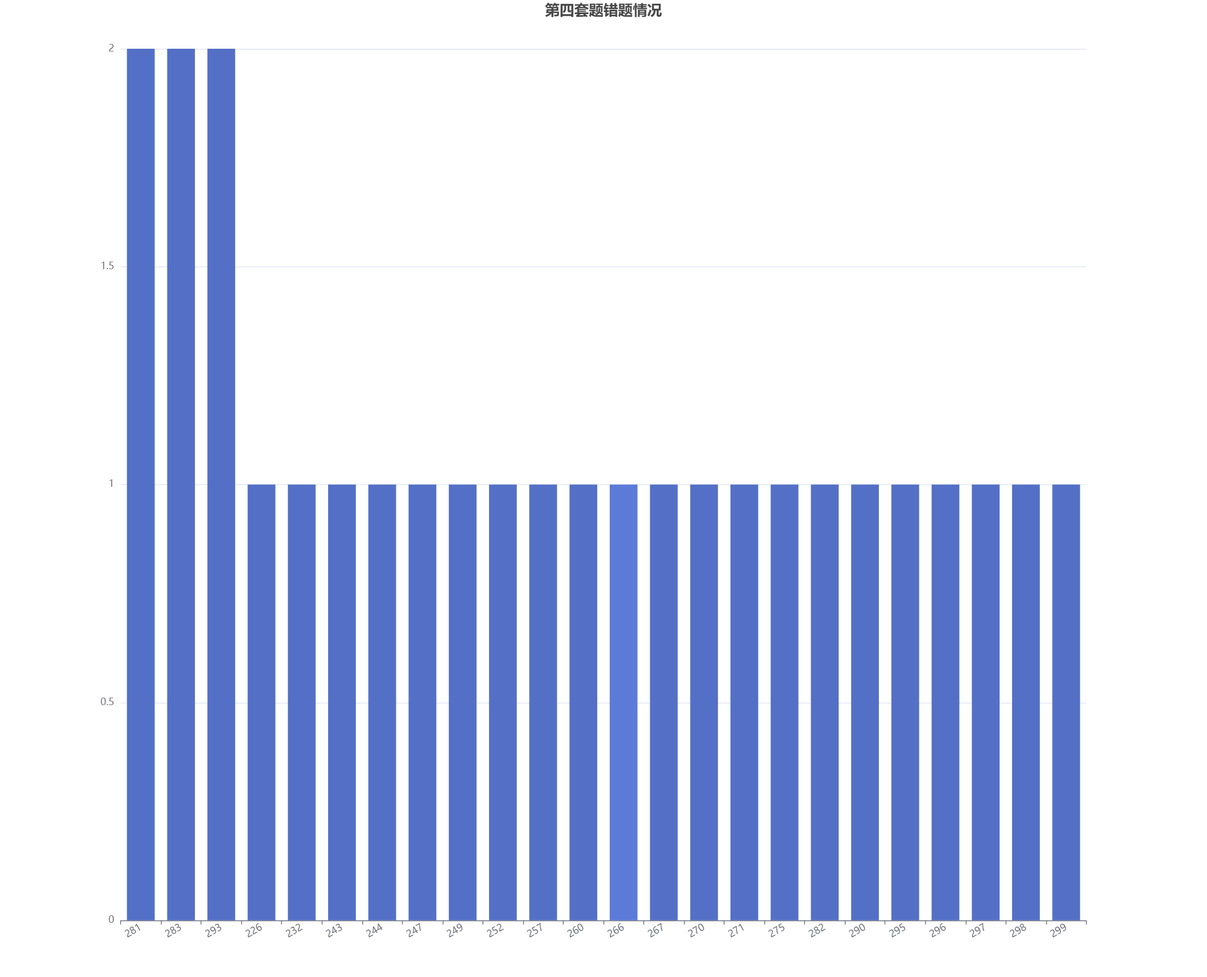
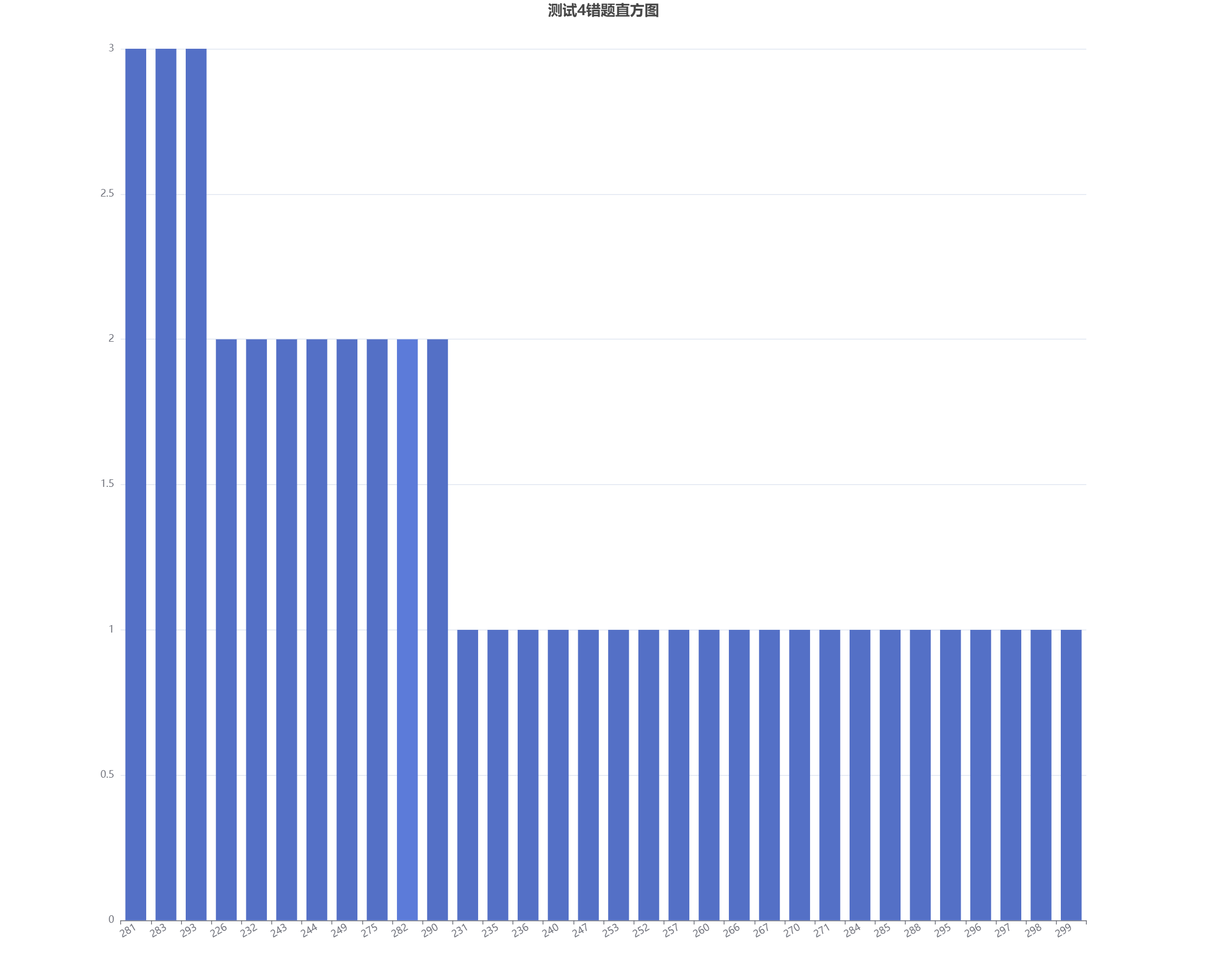
[update] up test 4 result

Changed region(s): [[0.0929, 0.031, 0.8977, 0.9623], [0.4334, 0.0, 0.5572, 0.031]]

diff --git a/src/testReview.js b/src/testReview.js
@@ -199,18 +199,23 @@ option = {
 option = {
   title: {
     left: "center",
-    text: "第四套题错题情况",
+    text: "测试4错题直方图",
   },
   dataset: [
     {
       dimensions: ["number", "frequent"],
       source: [
-        ["226", 1],
-        ["232", 1],
-        ["243", 1],
-        ["244", 1],
+        ["226", 2],
+        ["231", 1],
+        ["232", 2],
+        ["235", 1],
+        ["236", 1],
+        ["240", 1],
+        ["243", 2],
+        ["244", 2],
         ["247", 1],
-        ["249", 1],
+        ["249", 2],
+        ["253", 1],
         ["252", 1],
         ["257", 1],
         ["260", 1],
@@ -218,12 +223,15 @@ option = {
         ["267", 1],
         ["270", 1],
         ["271", 1],
-        ["275", 1],
-        ["281", 2],
-        ["282", 1],
-        ["283", 2],
-        ["290", 1],
-        ["293", 2],
+        ["275", 2],
+        ["281", 3],
+        ["282", 2],
+        ["283", 3],
+        ["284", 1],
+        ["285", 1],
+        ["288", 1],
+        ["290", 2],
+        ["293", 3],
         ["295", 1],
         ["296", 1],
         ["297", 1],

diff --git a/src/correctRate.js b/src/correctRate.js
@@ -96,3 +96,36 @@ option = {
     },
   ],
 };
+
+///////////////////////
+
+option = {
+  title: {
+    left: "center",
+    text: "测试4正确率推移",
+  },
+  tooltip: {
+    trigger: "axis",
+  },
+  xAxis: {
+    type: "category",
+    data: ["第一回", "第二回", "第三回"],
+  },
+  yAxis: {
+    type: "value",
+    axisLabel: {
+      formatter: "{value}%",
+    },
+  },
+  series: [
+    {
+      data: [70.7, 93.3, 74.7],
+      type: "line",
+      markLine: {
+        symbol: ["none", "none"],
+        label: { show: true },
+        data: [{ yAxis: 75 }],
+      },
+    },
+  ],
+};

diff --git a/第3套/README.md b/第3套/README.md
@@ -468,11 +468,11 @@
   
     </details>
 
-31. You have a periodic image analysis application that gets some files in input, analyzes them and tor each file writes some data in output to a ten file the number of files in input per day is high and concentrated in a few hours of the day. Currently you have a server on EC2 with a large EBS volume that hosts the input data and the results. It takes almost 20 hours per day to complete the process. What services could be used to reduce the elaboration time and improve the availability of the solution?
-    - [ ] A. S3 to store I/O files. SQS to distribute elaboration commands to a group of hosts working in parallel. Auto scaling to dynamically size the group of hosts depending on the length of the SQS queue
-    - [ ] B. EBS with Provisioned IOPS (PIOPS) to store I/O files. SNS to distribute elaboration commands to a group of hosts working in parallel Auto Scaling to dynamically size the group of hosts depending on the number of SNS notifications
-    - [ ] C. S3 to store I/O files, SNS to distribute evaporation commands to a group of hosts working in parallel. Auto scaling to dynamically size the group of hosts depending on the number of SNS notifications
-    - [ ] D. EBS with Provisioned IOPS (PIOPS) to store I/O files SQS to distribute elaboration commands to a group of hosts working in parallel Auto Scaling to dynamically size the group ot hosts depending on the length of the SQS queue.
+31. You have a periodic image analysis application that gets some files in input, analyzes them and for each file writes some data in output to a I/O file. The number of files in input per day is high and concentrated in a few hours of the day. Currently you have a server on EC2 with a large EBS volume that hosts the input data and the results. It takes almost 20 hours per day to complete the process. What services could be used to reduce the elaboration time and improve the availability of the solution?
+    - [ ] A. S3 to store I/O files. SQS to distribute elaboration commands to a group of hosts working in parallel. Auto scaling to dynamically size the group of hosts depending on the length of the SQS queue.
+    - [ ] B. EBS with Provisioned IOPS (PIOPS) to store I/O files. SNS to distribute elaboration commands to a group of hosts working in parallel. Auto Scaling to dynamically size the group of hosts depending on the number of SNS notifications
+    - [ ] C. S3 to store I/O files, SNS to distribute evaporation commands to a group of hosts working in parallel. Auto scaling to dynamically size the group of hosts depending on the number of SNS notifications.
+    - [ ] D. EBS with Provisioned IOPS (PIOPS) to store I/O files. SQS to distribute elaboration commands to a group of hosts working in parallel. Auto Scaling to dynamically size the group of hosts depending on the length of the SQS queue.
 
     <details>
        <summary>Answer</summary>
@@ -497,10 +497,11 @@
 
     </details>
 
-33. An organization is planning to host a Wordpress blog as well as joomla CMS on a single instance launched with VPC. The organization wants to create separate domains for each application using Route 53. The organization may have about ten instances each with these two applications. While launching each instance, the organization configured two separate network interfaces (primary + secondary ENI) with their own Elastic IPs to the instance. The suggestion was to use a public IP from AWS instead of an Elastic IP as the number of elastic IPs allocation per region is restricted in the account. What action will you recommend to the organization?
+33. An organization is planning to host a Wordpress blog as well as Joomla CMS on a single instance launched with VPC. The organization wants to create separate domains for each application using Route 53. The organization may have about ten instances each with these two applications. While launching each instance, the organization configured two separate network interfaces (primary + secondary ENI) with their own Elastic IPs to the instance. The suggestion was to use a public IP from AWS instead of an Elastic IP as the number of elastic IPs allocation per region is restricted in the account. What action will you recommend to the organization?
+
     - [ ] A. I agree with the suggestion but will prefer that the organization should use separate subnets with each ENI for different public IPs.
     - [ ] B. I do not agree as it is required to have only an elastic IP since an instance has more than one ENI and AWS does not assign a public IP to an instance with multiple ENIs.
-    - [ ] C. I do not agree as AWS VPC does not attach a public IP to an ENI; so the user has to use only an elastic IP only.
+    - [ ] C. I do not agree as AWS VPC does not attach a public IP to an ENI; so, the user must use only an elastic IP only.
     - [ ] D. I agree with the suggestion, and it is recommended to use a public IP from AWS since the organization is going to use DNS with Route 53.
 
     <details>
@@ -526,10 +527,10 @@
 
     </details>
 
-35. A company is running a batch analysis every hour on their main transactional DB, running on an RDS MySQL instance, to populate their central Data Warehouse running on Redshift. During the execution of the batch, their transactional applications are very slow. When the batch completes they need to update the top management dashboard with the new data. The dashboard is produced by another system running on-premises that is currently started when a manually-sent email notifies that an update is required. The on-premises system cannot be modified because is managed by another team. How would you optimize this scenario to solve performance issues and automate the process as much as possible?
+35. A company is running a batch analysis every hour on their main transactional DB, running on an RDS MySQL instance, to populate their central Data Warehouse running on Redshift. During the execution of the batch, their transactional applications are very slow. When the batch completes, they need to update the top management dashboard with the new data. The dashboard is produced by another system running on-premises that is currently started when a manually sent email notifies that an update is required. The on-premises system cannot be modified because is managed by another team. How would you optimize this scenario to solve performance issues and automate the process as much as possible?
     - [ ] A. Replace RDS with Redshift for the batch analysis and SNS to notify the on-premises system to update the dashboard.
     - [ ] B. Replace RDS with Redshift for the oaten analysis and SQS to send a message to the on-premises system to update the dashboard.
-    - [ ] C. Create an RDS Read Replica for the batch analysis and SNS to notify me on-premises system to update the dashboard.
+    - [ ] C. Create an RDS Read Replica for the batch analysis and SNS to notify the on-premises system to update the dashboard.
     - [ ] D. Create an RDS Read Replica for the batch analysis and SQS to send a message to the on-premises system to update the dashboard.
 
     <details>
@@ -539,10 +540,10 @@
   
     </details>
 
-36. A company is building a voting system for a popular TV show, viewers will watch the performances then visit the show website to vote for their favorite performer. It is expected that in a short period of time after the show has finished the site will receive millions of visitors, the visitors will first login to the site using their "Amazon.com" credentials and then submit their vote. After the voting is completed, the page will display the vote totals. The company needs to build the site such that it can handle the rapid influx of traffic while maintaining good performance but also wants to keep costs to a minimum. Which of the design patters below should they use?
-    - [ ] A. Use CloudFront and an Elastic Load Balancer in front of an auto-scaled set of web servers, the web servers will first call the Login With Amazon service to authenticate the user, the web servers will process the users vote and store the result into a DynamoDB table using IAM Roles for EC2 Instances to gain permissions to the DynamoDB table.
-    - [ ] B. Use CloudFront and an Elastic Load Balancer in front of an auto-scaled set of web servers, the web servers will first call the Login With Amazon service to authenticate the user, the web servers will process the users vote and store the result into an SQS queue using IAM Roles for EC2 Instances to gain permissions to the SQS queue. A set of application servers will then retrieve the items from the queue and store the result into a DynamoDB table.
-    - [ ] C. Use CloudFront and an Elastic Load Balancer in front of an auto-scaled set of web servers, the web servers will first call the Login With Amazon service to authenticate the user then process the users vote and store the result into a multi-AZ Relational Database Service instance.
+36. A company is building a voting system for a popular TV show, viewers will watch the performances then visit the show website to vote for their favorite performer. It is expected that in a short period of time after the show has finished the site will receive millions of visitors, the visitors will first login to the site using their `Amazon.com` credentials and then submit their vote. After the voting is completed, the page will display the vote totals. The company needs to build the site such that it can handle the rapid influx of traffic while maintaining good performance but also wants to keep costs to a minimum. Which of the design patters below should they use?
+    - [ ] A. Use CloudFront and an Elastic Load Balancer in front of an auto-scaled set of web servers, the web servers will first call the Login with Amazon service to authenticate the user, the web servers will process the users vote and store the result into a DynamoDB table using IAM Roles for EC2 Instances to gain permissions to the DynamoDB table.
+    - [ ] B. Use CloudFront and an Elastic Load Balancer in front of an auto-scaled set of web servers, the web servers will first call the Login with Amazon service to authenticate the user, the web servers will process the users vote and store the result into an SQS queue using IAM Roles for EC2 Instances to gain permissions to the SQS queue. A set of application servers will then retrieve the items from the queue and store the result into a DynamoDB table.
+    - [ ] C. Use CloudFront and an Elastic Load Balancer in front of an auto-scaled set of web servers, the web servers will first call the Login with Amazon service to authenticate the user then process the users vote and store the result into a multi-AZ Relational Database Service instance.
     - [ ] D. Use CloudFront and the static website hosting feature of S3 with the JavaScript SDK to call the Login with Amazon service to authenticate the user, use IAM Roles to gain permissions to a DynamoDB table to store the users vote.
 
     <details>
@@ -635,7 +636,7 @@
     - [ ] B. Review the Access Advisor in AWS IAM to determine
     - [ ] C. Review the AWS Trusted Advisor report to determine services recently used
     - [ ] D. Remove the default FullAWSAccess SCP
-    - [ ] E. Define organizational units(OUS)and place the member accounts in the OUs
+    - [ ] E. Define organizational units (OUS)and place the member accounts in the OUs
     - [ ] F. Remove the default DenyAWSaccess SCP
 
     <details>
@@ -652,7 +653,7 @@
 
 44. A company hosts a community forum site using an Application Load Balancer (ALB) and a Docker application hosted in an Amazon ECS cluster. The site data is stored in Amazon RDS for MYSQL, and the container image is stored in ECR. The company needs to provide their customers with a disaster recovery SLA with an RTO of no more than 24 hours and RPO of no more than 8 hours. Which of the following solutions is the MOST cost-effective way to meet the requirements?
     - [ ] A. Use AWS CloudFormation to deploy identical ALB, EC2, ECS and RDS resources in two regions. Schedule RDS snapshots every 8 hours. Use RDS multi-region replication to update the secondary regions copy of the database. In the event of a failure, restore from the latest snapshot, and use an Amazon Route 53 DNS failover policy to automatically redirect customers to the ALB in the secondary region.
-    - [ ] B. Store the Docker image in ECR in two regions. Schedule RDS snapshots every 8 hours with snapshots copied to the secondary region. In the event of a failure, use AWS CloudFormation to deploy the AL B, EC2, ECS and RDS resources in the secondary region, restore from the latest snapshot, and update the DNS record to point to the ALB in the secondary region.
+    - [ ] B. Store the Docker image in ECR in two regions. Schedule RDS snapshots every 8 hours with snapshots copied to the secondary region. In the event of a failure, use AWS CloudFormation to deploy the ALB, EC2, ECS and RDS resources in the secondary region, restore from the latest snapshot, and update the DNS record to point to the ALB in the secondary region.
     - [ ] C. Use AWS CloudFormation to deploy identical ALB, EC2 ECS, and RDS resources in a secondary region. Schedule hourly RDS MYSQL backups to Amazon S3 and use cross-region replication to replicate data to a bucket in the secondary region. In the event of a failure, import the latest Docker image to Amazon ECR in the secondary region, deploy to the EC2 instance, restore the latest MYSQL backup, and update the DNS record to point to the ALB in the secondary region.
     - [ ] D. Deploy a pilot light environment in a secondary region with an ALB and a minimal resourceEC2 deployment for Docker in an AWS Auto Scaling group with a scaling policy to increase instance size and number of nodes. Create a cross-region read replica of the RDS data. In the event of a failure, promote the replica to primary and update the DNS record to point to the ALB in the secondary region.
 
@@ -706,9 +707,9 @@
 
 48. A company is planning to deploy a new business analytics application that requires 10.000 hours of compute time each month. The compute resources can have flexible availability but must be as cost-effective as possible. The company will also provide a reporting service to distribute analytics reports, which needs to always run. How should the Solution Architect design a solution that meets these requirements?
     - [ ] A. Deploy the reporting service on a spot Fleet. Deploy the analytics ECS with AWS Fargate as the compute option. Set the analytics application to use a custom metric with Service Auto Scaling.
-    - [ ] B. Deploy the reporting service on an On-demand Instance Deploy the analytics application as a container in AWS Batch with AWS Fargate as the compute option. Set the analytics application to use a custom metric with Service Auto Scaling.
+    - [ ] B. Deploy the reporting service on an On-demand Instance. Deploy the analytics application as a container in AWS Batch with AWS Fargate as the compute option. Set the analytics application to use a custom metric with Service Auto Scaling.
     - [ ] C. Deploy the reporting service as a container in Amazon ECS with AWS Fargate as the compute option. Deploy the analytics application on a Spot Fleet. Set the analytics application to use a custom metric with Amazon EC2 Auto Scaling applied to the Spot Fleet.
-    - [ ] D. Deploy the reporting service as a container in Amazon ECS with AWS Fargate as the compute option. Deploy the analytics application on an On-demand Instance and purchase a reserves Instance with a3-year term. Set the analytics application to use a custom metric with Amazon EC2 Auto Scaling applied to the On-Demand Instance.
+    - [ ] D. Deploy the reporting service as a container in Amazon ECS with AWS Fargate as the compute option. Deploy the analytics application on an On-demand Instance and purchase a reserves Instance with a 3-year term. Set the analytics application to use a custom metric with Amazon EC2 Auto Scaling applied to the On-Demand Instance.
 
     <details>
        <summary>Answer</summary>
@@ -717,12 +718,12 @@
 
     </details>
 
-49. A utility company wants to collect usage data every 5 minutes from its smart meters to facilitate time-of-use metering. When a meter sends data to AWS, the data is sent to Amazon API Gateway, processed by an AWS Lambda function, and stored in an Amazon DynamoDB table. During the pilot phase, the Lambda functions took from 3 to 5 seconds to complete As more smart meters are deployed, the Engineers notice the Lambda functions are taking from I to 2 minutes to complete. The functions are also increasing in duration as new types of metrics are collected from the devices. There are many "ProvisionedThroughputExceededException" errors while performing PUT operations on DynamoDB, and there are also many "TooManyRequestsException" errors from Lambda. Which combination of changes will resolve these issues? (Choose two.)
-    - [ ] A. Increase the write capacity units to the DynamoDB table.
-    - [ ] B. Increase the memory available to the Lambda functions.
-    - [ ] C. Increase the payload size from the smart meters to send more data.
-    - [ ] D. Stream the data into an Amazon Kinesis data stream from API Gateway and process the data in batches.
-    - [ ] E. Collect data in an Amazon SQS FIFO queue, which triggers a Lambda function to process each message.
+49. A utility company wants to collect usage data every 5 minutes from its smart meters to facilitate time-of-use metering. When a meter sends data to AWS, the data is sent to Amazon API Gateway, processed by an AWS Lambda function, and stored in an Amazon DynamoDB table. During the pilot phase, the Lambda functions took from 3 to 5 seconds to complete as more smart meters are deployed, the Engineers notice the Lambda functions are taking from I to 2 minutes to complete. The functions are also increasing in duration as new types of metrics are collected from the devices. There are many `ProvisionedThroughputExceededException` errors while performing PUT operations on DynamoDB, and there are also many `TooManyRequestsException` errors from Lambda. Which combination of changes will resolve these issues? (Choose two.)
+      - [ ] A. Increase the write capacity units to the DynamoDB table.
+      - [ ] B. Increase the memory available to the Lambda functions.
+      - [ ] C. Increase the payload size from the smart meters to send more data.
+      - [ ] D. Stream the data into an Amazon Kinesis data stream from API Gateway and process the data in batches.
+      - [ ] E. Collect data in an Amazon SQS FIFO queue, which triggers a Lambda function to process each message.
 
     <details>
        <summary>Answer</summary>
@@ -1143,7 +1144,7 @@
     - [ ] A. Create a quorum signing application hosted on multiple Amazon EC2 instances behind an Application Load Balancer to allow an officer to initiate a quorum request. Require officers to log in to the application with their federated identity credentials. Each officer will then use the application to approve the quorum signing request. Configure the application to use AWS STS to sign the CloudHSM quorum token on behalf of the officers. Once at least three officers have approved the quorum signing request use EC2 IAM service roles to administer CloudHSM with the signed quorum token.
     - [ ] B. Create a static website on Amazon S3 integrated with Amazon API Gateway to allow an officer to initiate a quorum request. Use Amazon SNS to notify the officers of a quorum request. Allow the officers to download the CloudHSM quorum token, sign the token offline, and upload the signed token through the website. Use Amazon DynamoDB to store the quorum token and additional officer responses with their signed quorum tokens. Configure an AWS Step Functions workflow to orchestrate officer notifications, count signed tokens in Amazon DynamoDB, and notify the initiating officer once at least three officers have stoned the token. Use the signed quorum token to administer CloudHSM.
     - [ ] C. Create a status website on Amazon S3 integrated with Amazon API Gateway to allow an officer to imuate a quorum request. Use the website to redirect the officers to sign in to CloudHSM with their federated Identity credentials. Once at least three officers are signed in to CloudHSM, initiate a synchronous quorum token signing process. Use the stoned quorum token to administer CloudHSM.
-    - [ ] D. Create an Amazon Cognito-authenticated Amazon API Gateway API endpoint with an AWS Lambda proxy integration. Allow an officer to create a CloudHSM quorum token and post it to the API Gateway. API after signing in with Amazon Cognito. Configure the Lambda function to perform a signing procedure on the quorum token using the officer's Amazon Cognito IAM role, and store the signed token in Amazon DynamoDB. Once at least three officers have signed the quorum token, allow a POST method to administer CloudHSM with the signed token.
+    - [ ] D. Create an Amazon Cognito-authenticated Amazon API Gateway API endpoint with an AWS Lambda proxy integration. Allow an officer to create a CloudHSM quorum token and post it to the API Gateway API after signing in with Amazon Cognito. Configure the Lambda function to perform a signing procedure on the quorum token using the officer's Amazon Cognito IAM role and store the signed token in Amazon DynamoDB. Once at least three officers have signed the quorum token, allow a POST method to administer CloudHSM with the signed token.
 
     <details>
        <summary>Answer</summary>
@@ -1153,8 +1154,8 @@
     </details>
 
 81. A company is using an existing orchestration tool to manage thousands of Amazon EC2 instances. A recent penetration test found a vulnerability in the company's software stack. This vulnerability has prompted the company to perform a full evaluation of its current production environment. The analysis determined that the following vulnerabilities exist within the environment: -Operating systems with outdated libraries and known vulnerabilities are being used in production. -Relational databases hosted and managed by the company are running unsupported versions with known vulnerabilities. -Data stored in databases is not encrypted. The solutions architect intends to use AWS Config to continuously audit and assess the compliance of the company's AWS resource configurations with the company's policies and guidelines. What additional steps will enable the company to secure its environments and track resources while adhering to best practices?
-    - [ ] A. Use AWS Application Discovery Service to evaluate all running EC2 instances Use the AWS CLI to modify each instance, and use EC2 user data to install the AWS Systems Manager Agent during boot. Schedule patching to run as a Systems Manager Maintenance Windows task. Migrate all relational databases to Amazon RDS and enable AWS KMS encryption.
-    - [ ] B.  Create an AWS CloudFormation template for the EC2 instances. Use EC2 user data in the CloudFormation template to install the AWS Systems Manager Agent, and enable AWS KMS encryption on all Amazon EBS volumes. Have CloudFormation replace all running instances. Use Systems Manager Patch Manager to establish a patch baseline and deploy a Systems Manager Maintenance Windows task to execute AWS-RunPatchBaseline using the patch baseline.
+    - [ ] A. Use AWS Application Discovery Service to evaluate all running EC2 instances. Use the AWS CLI to modify each instance and use EC2 user data to install the AWS Systems Manager Agent during boot. Schedule patching to run as a Systems Manager Maintenance Windows task. Migrate all relational databases to Amazon RDS and enable AWS KMS encryption.
+    - [ ] B. Create an AWS CloudFormation template for the EC2 instances. Use EC2 user data in the CloudFormation template to install the AWS Systems Manager Agent and enable AWS KMS encryption on all Amazon EBS volumes. Have CloudFormation replace all running instances. Use Systems Manager Patch Manager to establish a patch baseline and deploy a Systems Manager Maintenance Windows task to execute AWS-RunPatchBaseline using the patch baseline.
     - [ ] C. Install the AWS Systems Manager Agent on all existing instances using the company's current orchestration tool. Use the Systems Manager Run Command to execute a list of commands to upgrade software on each instance using operating system-specific tools. Enable AWS KMS encryption on all Amazon EBS volumes.
     - [ ] D. Install the AWS Systems Manager Agent on all existing instances using the company's current orchestration tool. Migrate all relational databases to Amazon RDS and enable AWS KMS encryption. Use Systems Manager Patch Manager to establish a patch baseline and deploy a Systems Manager Maintenance Windows task to execute AWS-RunPatchBaseline using the patch baseline.
 
@@ -1220,9 +1221,9 @@
     </details>
 
 86. A company wants to host a global web application on AWS. It has the following design requirements. -Minimize the of API calls. -The access pattern must allow for latching data from multiple data sources. -Keep page load times to within 50ms. -Provide user authentication and authorization and manage data access for different user personas (for example, administrator, manager, or engineer). -Use a serverless design. Which set of strategies should a solution architect use?
-    - [ ] A. Use Amazon CloudFront with Amazon S3 to host the web application Use Amazon API gateway to build the application APIs with AWS Lambda for the custom authorizer Authorize data access by performing user lookup in Simple AD.
-    - [ ] B. Use Amazon CloudFront with AWS WAF to host the web application. Use AWS AppSync to build the application APIs. Use IAM groups for each user persona Authorize data access by leveraging IAM group in AWS AppSync resolvers.
-    - [ ] C. Use Amazon CloudFront with Amazon S3 to host the web application. Use AWS AppSync to build the application APIs. Use Amazon Cognito groups for each user persona Authorize data access by leveraging Amazon Cognito groups in AWS AppSync resolvers.
+    - [ ] A. Use Amazon CloudFront with Amazon S3 to host the web application. Use Amazon API gateway to build the application APIs with AWS Lambda for the custom authorizer. Authorize data access by performing user lookup in Simple AD.
+    - [ ] B. Use Amazon CloudFront with AWS WAF to host the web application. Use AWS AppSync to build the application APIs. Use IAM groups for each user persona. Authorize data access by leveraging IAM group in AWS AppSync resolvers.
+    - [ ] C. Use Amazon CloudFront with Amazon S3 to host the web application. Use AWS AppSync to build the application APIs. Use Amazon Cognito groups for each user persona. Authorize data access by leveraging Amazon Cognito groups in AWS AppSync resolvers.
     - [ ] D. Use AWS Direct Connect with Amazon S3 to host the web application. Use Amazon API Gateway to build the application APIs. Use AWS Lambda for custom authentication and authorization. Authorize data access by leveraging IAM roles.
 
     <details>

diff --git a/高频错题集/README.md b/高频错题集/README.md
@@ -223,3 +223,45 @@
        第223题，答案AB。
 
     </details>
+
+18. A company is using an existing orchestration tool to manage thousands of Amazon EC2 instances. A recent penetration test found a vulnerability in the company's software stack. This vulnerability has prompted the company to perform a full evaluation of its current production environment. The analysis determined that the following vulnerabilities exist within the environment: -Operating systems with outdated libraries and known vulnerabilities are being used in production. -Relational databases hosted and managed by the company are running unsupported versions with known vulnerabilities. -Data stored in databases is not encrypted. The solutions architect intends to use AWS Config to continuously audit and assess the compliance of the company's AWS resource configurations with the company's policies and guidelines. What additional steps will enable the company to secure its environments and track resources while adhering to best practices?
+    - [ ] A. Use AWS Application Discovery Service to evaluate all running EC2 instances. Use the AWS CLI to modify each instance and use EC2 user data to install the AWS Systems Manager Agent during boot. Schedule patching to run as a Systems Manager Maintenance Windows task. Migrate all relational databases to Amazon RDS and enable AWS KMS encryption.
+    - [ ] B. Create an AWS CloudFormation template for the EC2 instances. Use EC2 user data in the CloudFormation template to install the AWS Systems Manager Agent and enable AWS KMS encryption on all Amazon EBS volumes. Have CloudFormation replace all running instances. Use Systems Manager Patch Manager to establish a patch baseline and deploy a Systems Manager Maintenance Windows task to execute AWS-RunPatchBaseline using the patch baseline.
+    - [ ] C. Install the AWS Systems Manager Agent on all existing instances using the company's current orchestration tool. Use the Systems Manager Run Command to execute a list of commands to upgrade software on each instance using operating system-specific tools. Enable AWS KMS encryption on all Amazon EBS volumes.
+    - [ ] D. Install the AWS Systems Manager Agent on all existing instances using the company's current orchestration tool. Migrate all relational databases to Amazon RDS and enable AWS KMS encryption. Use Systems Manager Patch Manager to establish a patch baseline and deploy a Systems Manager Maintenance Windows task to execute AWS-RunPatchBaseline using the patch baseline.
+
+    <details>
+       <summary>Answer</summary>
+
+       第281题，答案D。
+
+    </details>
+
+19. A company has a VPC with two domain controllers running Active Directory in the default configuration. The VPC DHCP options set is configured to use the IP addresses of the two domain controllers. There is a VPC interface endpoint defined; but instances within the VPC are not able to resolve the private endpoint addresses. Which strategies would resolve this issue? (Choose two.)
+    - [ ] A. Define an outbound Amazon Route 53 Resolver. Set a conditional forward rule for the Active Directory domain to the Active Directory servers. Update the VPC DHCP options set to AmazonProvidedDNS.
+    - [ ] B. Update the DNS service on the Active Directory servers to forward all non-authoritative queries to the VPC Resolver.
+    - [ ] C. Define an inbound Amazon Route 53 Resolver. Set a conditional forward rule for the Active Directory domain to the Active Directory servers. Update the VPC DHCP options set to AmazonProvidedDNS.
+    - [ ] D. Update the DNS service on the client instances to split DNS queries between the Active Directory servers and the VPC Resolver.
+    - [ ] E. Update the DNS service on the Active Directory servers to forward all queries to the VPC Resolver.
+
+    <details>
+       <summary>Answer</summary>
+
+       第283题，答案AB。
+
+    </details>
+
+20. A company is deploying a public-facing global application on AWS using Amazon CloudFront. The application communicates with an external system. A solutions architect needs to ensure the data is secured during end-to-end transit and at rest. Which combination of steps will satisfy these requirements? (Choose three.)
+    - [ ] A. Create a public certificate for the required domain in AWS Certificate Manager and deploy it to CloudFront, an Application Load Balancer, and Amazon EC2 instances.
+    - [ ] B. Acquire a public certificate from a third-party vendor and deploy it to CloudFront, an Application Load Balancer, and Amazon EC2 instances.
+    - [ ] C. Provision Amazon EBS encrypted volumes using AWS KMS and ensure explicit encryption of data when writing to Amazon EBS.
+    - [ ] D. Provision Amazon EBS encrypted volumes using AWS KMS.
+    - [ ] E. Use SSL or encrypt data while communicating with the external system using a VPN.
+    - [ ] F. Communicate with the external system using plaintext and use the VPN to encrypt the data in transit.
+
+    <details>
+       <summary>Answer</summary>
+
+       第283题，答案BDE。
+
+    </details>

diff --git a/README.md b/README.md
@@ -1,15 +1,5 @@
 # 统计
 
-## 2021年8月13日测试错题
-
-- 226, 232, 243, 244, 247, 249, 252, 257, 260, 267, 270, 271, 275, 281, 283, 290, 293, 295, 296, 297, 298, 299
-- 正确率70.67%
-
-## 2021年8月15日测试错题
-
-- 266, 281, 282, 283, 293
-- 正确率93.33%
-
 ## 2021年8月18日测试错题
 
 - 301, 302, 304, 305, 306, 316, 319, 320, 322, 323, 325, 326, 331, 332, 339, 340, 341, 342, 343, 346, 348, 353, 354, 360, 362, 364, 367, 368, 370
@@ -50,20 +40,26 @@
 - 468, 472, 477, 488, 489, 492, 499, 501, 503, 504, 508, 511
 - 正确率82.35%
 
-## 测试1（第1套题Q1~第1套题Q75）
+## 测试1（第1套Q1~第1套Q75）
 
 ![第1套题正确率](./img/correctRate1.png)
 
 ![第1套错题集](./img/testReview1.png)
 
-## 测试2（第1套题Q76~第2套题Q50）
+## 测试2（第1套Q76~第2套Q50）
 
 ![第2套题正确率](./img/correctRate2.png)
 
 ![第2套错题集](./img/testReview2.png)
 
-## 测试3（第2套题Q51~第3套题Q25）
+## 测试3（第2套Q51~第3套Q25）
 
 ![第3套题正确率](./img/correctRate3.png)
 
 ![第3套错题集](./img/testReview3.png)
+
+## 测试4（第3套Q26~第3套Q100）
+
+![第4套题正确率](./img/correctRate4.png)
+
+![第4套错题集](./img/testReview4.png)
